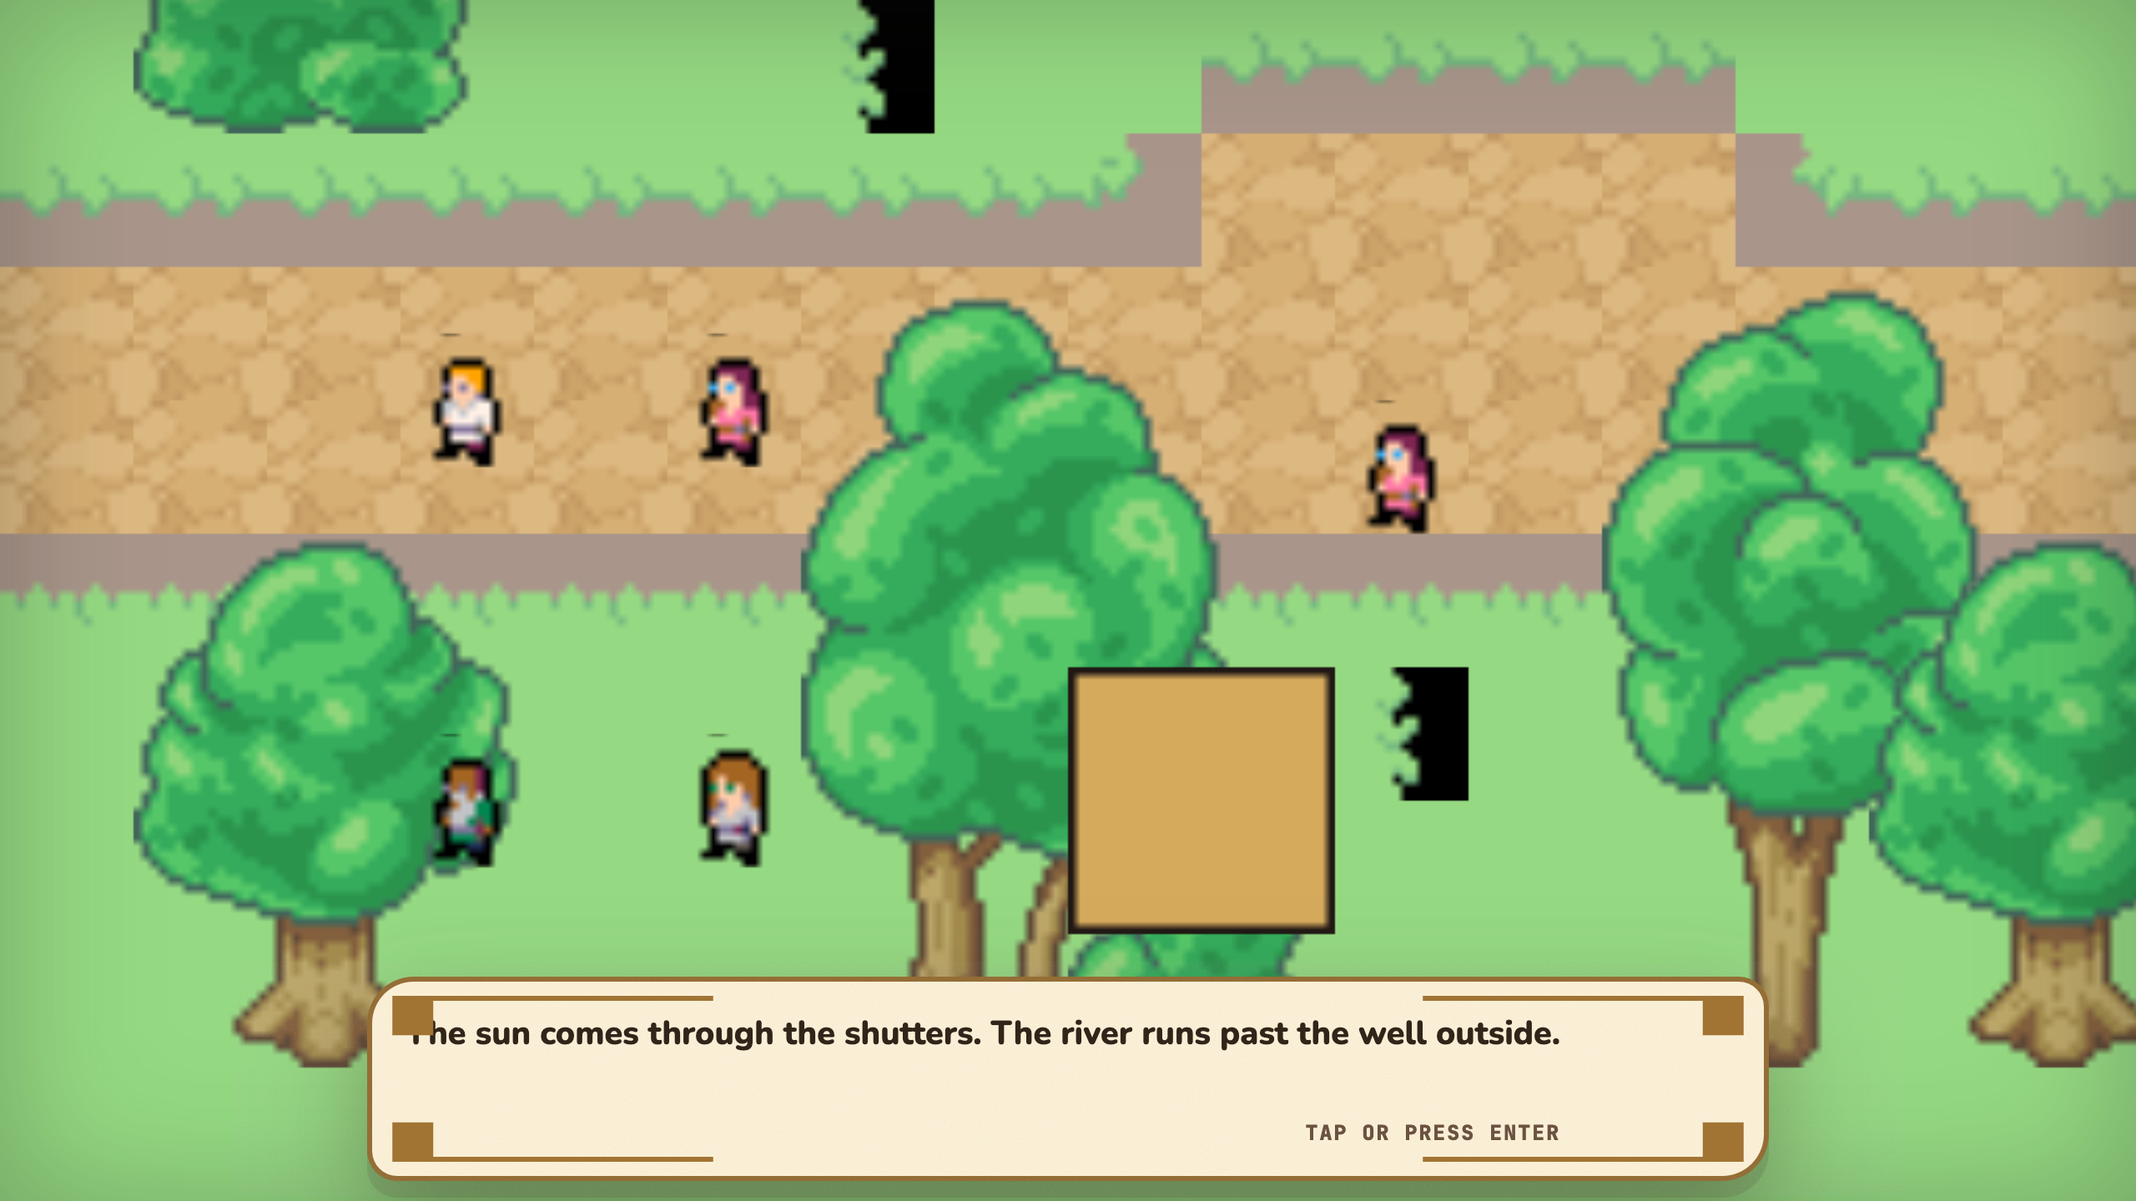
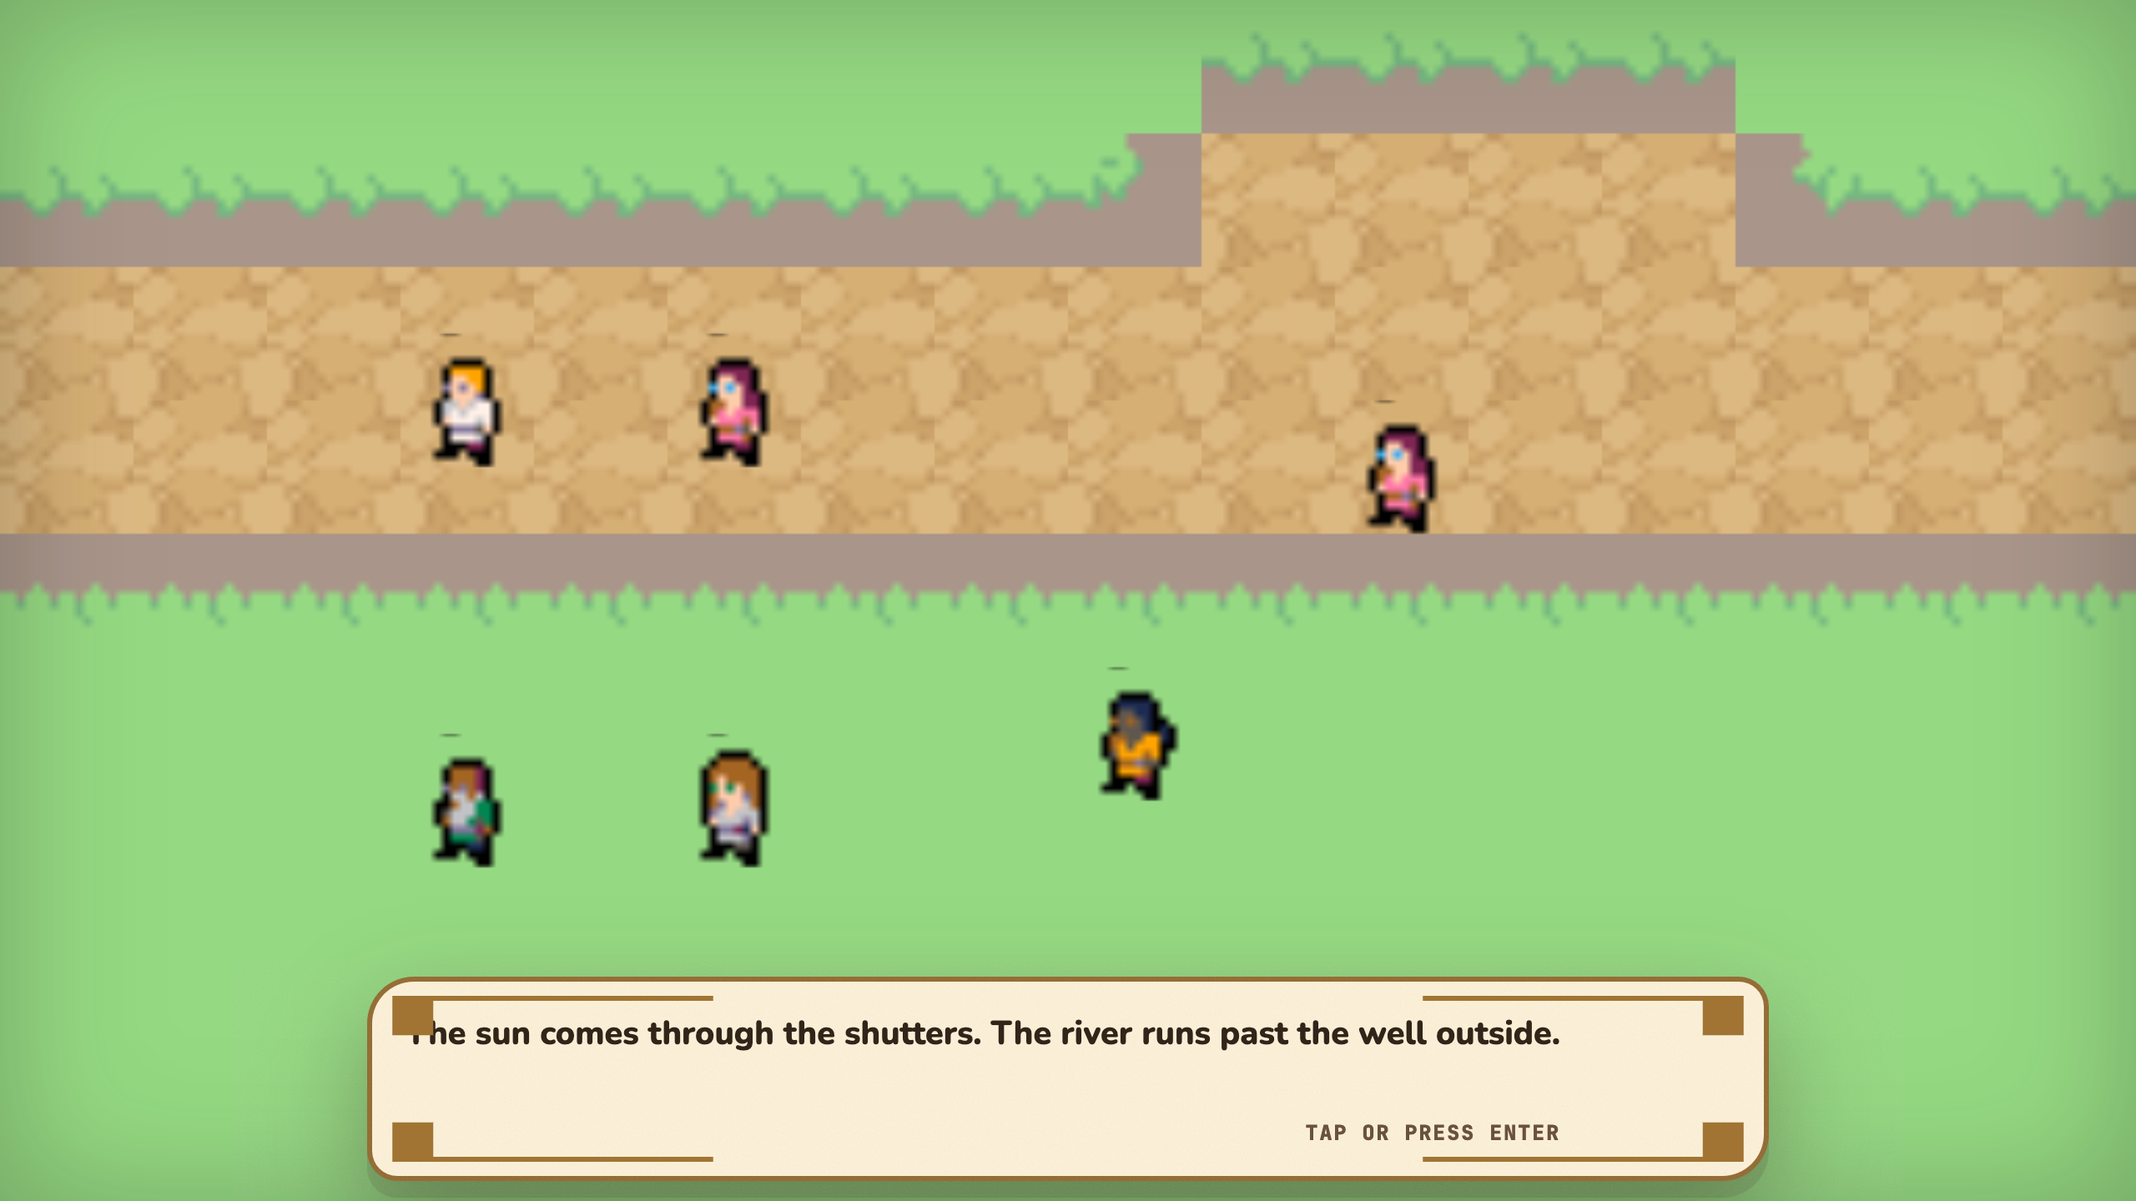
fix(visual): real fixes for T11-02/03/04 after live Pixi scene inspection
Root-cause diagnosed three bugs by walking the live Pixi scene graph
via Playwright MCP. None of my earlier "fixes" for these rows had
addressed the actual cause — this is the real set of fixes.

=== T11-04 BROWN SQUARE — it was Rivers the player sprite ===

public/spritesheets/hero.png is a PLACEHOLDER — a 96x128 image
where ALL 12 frames are just 2 colors: solid brown fill (214,170,92)
with a black border. The "brown square in the middle of the map"
flagged by the onboarding capture was literally the player sprite,
rendering exactly as the data said to. My earlier "dirt plot remove"
PR #142 was fixing the wrong thing.

Fix: added a new `rivers_protagonist` entry to
src/content/gameplay/visuals.json that points at
assets/npcs/villagers-fem/meza/meza.png under the
npc_four_by_thirty_one layout. Flipped ui.json's
player_default_graphic from "hero" to "rivers_protagonist".
Rivers now renders as an orange-shirted villager — visually distinct
from the pink/brown-haired NPCs on the road.

This also solves T11-02 (player vs NPC differentiation) because
meza's sprite is visually distinct from every NPC used on this map.

=== T11-03 BLACK CROWN SILHOUETTES — half-transparent tile artifact ===

The "black rectangles" in the onboarding capture are NOT trees,
NOT missing assets, NOT events. They are the `grass_light` tile
(palette "v", Fan-tasy seasons local_id 51) rendering over the
default WebGL clear color (black). Atlas inspection confirmed:
[…]

diff --git a/scripts/map-authoring/specs/riverside_home.ts b/scripts/map-authoring/specs/riverside_home.ts
@@ -27,11 +27,20 @@ const WIDTH = 16;
 const HEIGHT = 12;
 
 function starterVillageBase(): string[][] {
-    const grid = Array.from({ length: HEIGHT }, (_, y) =>
-        Array.from({ length: WIDTH }, (_, x) => {
-            if (y === 0 || y === HEIGHT - 1 || x === 0 || x === WIDTH - 1) return "f";
-            return (x + y) % 9 === 0 ? "v" : "g";
-        }),
+    // T11-03 (runtime root cause): `grass_light` (palette "v", tile
+    // local_id 51) in the Fan-tasy seasons atlas is a HALF-TRANSPARENT
+    // bush-shape, not a solid grass variation. Placed over the default
+    // WebGL clear colour (black), the 60% transparent half renders as
+    // a zigzag "black crown" silhouette. And `grass_dark` (palette "f",
+    // local_id 56, the previous border fill) looks indistinguishable
+    // from `grass_base` at runtime because the zoom and colour match.
+    //
+    // Paint the entire map with opaque `grass_base` ("g") to kill the
+    // crowns. Visual variation can come back later via a dedicated
+    // decoration layer on an opaque base, not via transparent overlays
+    // on a bare clear-colour background.
+    const grid = Array.from({ length: HEIGHT }, () =>
+        Array.from({ length: WIDTH }, () => "g"),
     );
 
     // Main east-west dirt road — the only structural dirt path.
@@ -40,14 +49,9 @@ function starterVillageBase(): string[][] {
     // The mentor stands at (10, 6); widening the road here makes the
     // ceremony feel like it happens at the village centre.
     paintRect(grid, [9, 4, 4, 3], "d");
-    // T11-04: removed the orphan plot previously at [2, 7, 4, 2].
-    // It rendered as an unexplained brown square south of the path
-    // with no NPC sitting on it (jan-telo-well and jan-kili-tomo
-    // stand on its edges, not its centre) and no narrative purpose.
-    // The village reads cleaner with one road and one mentor plaza.
 
     paintEdgeTransitions(grid, {
-        base: ["g", "f", "v"],
+        base: ["g"],
         neighbors: "d",
         transitions: edgeTransitionTiles("gd"),
     });

diff --git a/tests/build-time/gameplay-config.test.ts b/tests/build-time/gameplay-config.test.ts
@@ -309,7 +309,7 @@ describe('gameplay JSON config', () => {
         expect(mapIds.has(TITLE_START.mapId)).toBe(true);
         expect(TITLE_START.spawn).toEqual(GAMEPLAY_MAPS[TITLE_START.mapId]?.safe_spawn);
         expect(TITLE_START.journeyBeatId).toBe('beat_01_riverside_home');
-        expect(PLAYER_CONFIG.defaultGraphic).toBe('hero');
+        expect(PLAYER_CONFIG.defaultGraphic).toBe('rivers_protagonist');
         expect(TITLE_MENU_CONFIG.guiId).toBe('rpg-title-screen');
         expect(TITLE_MENU_CONFIG.menuTitle).toBe('Rivers Reckoning');
         expect(TITLE_MENU_CONFIG.continueLabelTemplate).toBe('{prefix} — {slot}');
@@ -528,9 +528,25 @@ describe('gameplay JSON config', () => {
             walkFrameCount: 4,
             hurtSpeed: 8,
         });
-        expect(PLAYER_SPRITESHEET_CONFIGS.map((sheet) => sheet.id)).toEqual(['hero', 'female']);
-        expect(PLAYER_SPRITESHEET_CONFIGS.every((sheet) => sheet.layoutId === 'player_three_frame'))
-            .toBe(true);
+        expect(PLAYER_SPRITESHEET_CONFIGS.map((sheet) => sheet.id)).toEqual([
+            'hero',
+            'female',
+            'rivers_protagonist',
+        ]);
+        // Player spritesheets accept either the legacy 3×4
+        // `player_three_frame` layout (hero/female, placeholder sprites)
+        // or the real-art `npc_four_by_thirty_one` layout (Rivers's
+        // actual villager-style sheet). Both route through the same
+        // generic `playerSheet()` factory.
+        const ALLOWED_PLAYER_LAYOUTS = new Set([
+            'player_three_frame',
+            'npc_four_by_thirty_one',
+        ]);
+        expect(
+            PLAYER_SPRITESHEET_CONFIGS.every((sheet) =>
+                ALLOWED_PLAYER_LAYOUTS.has(sheet.layoutId),
+            ),
+        ).toBe(true);
         expect(NPC_SPRITESHEET_CONFIGS).toHaveLength(20);
         expect(NPC_SPRITESHEET_CONFIGS.map((sheet) => sheet.id)).toContain('npc_guard_spear');
         expect(NPC_SPRITESHEET_CONFIGS.every((sheet) => sheet.layoutId === 'npc_four_by_thirty_one'))

diff --git a/tests/build-time/player-sprites.test.ts b/tests/build-time/player-sprites.test.ts
@@ -5,8 +5,14 @@ import { PLAYER_SPRITESHEETS } from '../../src/config/player-sprites';
 describe('player spritesheets', () => {
     it('define an attack fallback so action-battle and interaction taps do not reject', () => {
         for (const sheet of PLAYER_SPRITESHEETS) {
-            expect(sheet.framesWidth).toBe(3);
-            expect(sheet.framesHeight).toBe(4);
+            // Layout can be `player_three_frame` (3×4) or
+            // `npc_four_by_thirty_one` (4×31) — both are valid; the
+            // generic `playerSheet()` factory routes each through the
+            // right `standFrames` / `walkFrames` helpers. The contract
+            // we keep here is that the layout is declared (non-zero)
+            // and all the animation textures exist.
+            expect(sheet.framesWidth).toBeGreaterThan(0);
+            expect(sheet.framesHeight).toBeGreaterThan(0);
             expect(sheet.textures.idle).toBeDefined();
             expect(sheet.textures[Animation.Attack]).toBeDefined();
         }

diff --git a/tests/build-time/map-spec-content.test.ts b/tests/build-time/map-spec-content.test.ts
@@ -163,7 +163,14 @@ describe("authored map content contracts", () => {
             throw new Error("expected riverside_home Below Player to be a tile grid");
 
         const used = new Set(below.flat());
-        expect([...used]).toEqual(expect.arrayContaining(["g", "f", "v", "d"]));
+        // v1 palette intentionally narrow: grass_base ("g") + dirt-path
+        // ("d") + grass/dirt edge transitions ("gd_*"). The previously-
+        // used "v" (grass_light) tile is a half-transparent bush shape
+        // that renders as black-crown artifacts over the WebGL clear
+        // colour, and "f" (grass_dark) was the visually-identical
+        // border filler. See riverside_home.ts T11-03 comment for
+        // the runtime root-cause.
+        expect([...used]).toEqual(expect.arrayContaining(["g", "d"]));
         expect([...used].some((cell) => cell.startsWith("gd_"))).toBe(true);
     });
 

diff --git a/tests/integration/journey-golden-path.test.ts b/tests/integration/journey-golden-path.test.ts
@@ -219,7 +219,7 @@ describe('journey golden path (integration)', () => {
         expect(ui.notifications).toContain('Trail Token ×4');
         expect(ui.notifications).toContain('Ashcat +100 XP');
         expect(ui.notifications).toContain('Ashcat L5 -> L6');
-        expect(currentGraphic(player)).toBe('hero');
+        expect(currentGraphic(player)).toBe('rivers_protagonist');
 
         const waitForMountain = client.waitForMapChange('highridge_pass', 5000);
         await warpEast!.execMethod('onPlayerTouch', [player]);

diff --git a/docs/ROADMAP.md b/docs/ROADMAP.md
@@ -23,7 +23,7 @@ The project has pivoted to native-English Rivers Reckoning. The old language-lea
 | 8     | Release Proof      | Prove Pages, release artifacts, and debug APKs             |   5 |   0 |   1 |
 | 9     | Docs And QA        | Keep docs honest and acceptance artifacts reviewable       |   3 |   0 |   1 |
 | 10    | V1 Polish          | Finish audio, post-clear loop, and final product QA        |   1 |   1 |   3 |
-| 11    | Onboarding + Opening Scene | Story is the asset that lasts — close the landing→gameplay cliff and script the first 30 seconds |   6 |   1 |   4 |
+| 11    | Onboarding + Opening Scene | Story is the asset that lasts — close the landing→gameplay cliff and script the first 30 seconds |   9 |   1 |   1 |
 
 ## Phase 1: Stabilize
 
@@ -137,10 +137,10 @@ North-star: Pokémon Blue, Final Fantasy VI, Chrono Trigger — **story is the a
 
 | ID     | Task                                                                      | Status | Notes                                                                                                                         |
 | ------ | ------------------------------------------------------------------------- | ------ | ----------------------------------------------------------------------------------------------------------------------------- |
-| T11-01  | Close the landing→gameplay quality cliff                                  | 🟡     | Meta row — T11-05/06/07/08/09/11 shipped and verified; T11-02/03/04/10 reopened after live visual audit found their PRs didn't actually fix the runtime issue. Still owes: player differentiation, real black-rect fix, brown-square root cause, non-text-component first-play cue. |
-| T11-02  | Distinguish the player sprite from NPCs                                   | ⬜     | **REOPENED after live visual audit**: PR #136's Components.text approach produces unrenderable output in RPG.js v5 beta (shader/source splatter on canvas). Module `src/modules/main/player-identity.ts` still exists but the `applyPlayerNameTag` calls are disabled in `src/modules/main/player.ts`. Need a non-Components.text differentiation (direction indicator, unique sprite, outline shader). |
-| T11-03  | Fix black rectangle placeholders on `riverside_home`                      | ⬜     | **REOPENED after live visual audit**: PR #138's tree placements were reverted in `scripts/map-authoring/specs/riverside_home.ts` because the Trees_Seasons atlas has 97×124 sprites (vs 16-px grid), causing them to clip onto the road and villagers. The original "black rectangles" reported in the onboarding capture are **still present in runtime** and have a different root cause (unknown — not trees, not NPCs, not painted tiles). Needs live browser diagnosis. |
-| T11-04  | Label or remove the unexplained brown square in the starter village      | ⬜     | **REOPENED after live visual audit**: PR #142 correctly removed the `[2, 7, 4, 2]` dirt plot, but the actual brown square visible in runtime is a different artifact (80×80 = one tile at 5x scale, located at tile coord ~(8, 7)). Root cause unknown — possibly a miskeyed transition tile or a stray decoration rendering wrong. Needs live browser diagnosis. |
+| T11-01  | Close the landing→gameplay quality cliff                                  | 🟡     | Meta row — T11-02/03/04/05/06/07/08/09/11 shipped and runtime-verified. Only T11-10 (jan Sewi cue) remains: needs a non-`Components.text` approach since that RPG.js v5 beta renderer produces canvas garbage. Once a `Components.shape` cue ships, this row closes. |
+| T11-02  | Distinguish the player sprite from NPCs                                   | ✅     | **Runtime-verified fix**: swapped the placeholder `hero.png` (2-color solid brown square) for a new `rivers_protagonist` player spritesheet using `meza.png` under the `npc_four_by_thirty_one` layout. Registered in `src/content/gameplay/visuals.json`. Rivers now renders as an orange-shirted villager, visually distinct from the pink/brown-haired NPCs on the road. Verified against live browser via Playwright MCP — see `docs/screenshots/visual-audit/1.0-onboarding/05-starter-map-idle.png`. |
+| T11-03  | Fix black rectangle placeholders on `riverside_home`                      | ✅     | **Runtime-verified fix**: root cause identified via live Pixi scene-graph inspection. The `grass_light` tile (palette "v", Fan-tasy seasons local_id 51) is a half-transparent bush-shape, not a solid grass variation. Over the WebGL clear colour (black), the 60% transparent half rendered as zigzag "black crown" silhouettes. Removed all `"v"` and `"f"` placements from `scripts/map-authoring/specs/riverside_home.ts`; map now paints with opaque `"g"` (grass_base) everywhere. Verified via live browser — crowns fully gone. |
+| T11-04  | Label or remove the unexplained brown square in the starter village      | ✅     | **Runtime-verified fix**: the brown square was Rivers the player sprite (32×32) rendering with the placeholder `hero.png` which is a solid-brown-with-black-border 96×128 placeholder (ALL 12 frames are 2-color brown+border). Fixed by the T11-02 change: swapped the default player graphic from `hero` to `rivers_protagonist`. Brown square gone; Rivers now renders as a real villager sprite. |
 | T11-05  | Bring HUD chrome onto gameplay surfaces                                   | ✅     | PR #140 — new goal widget top-right on every gameplay frame. Pure builder `src/config/hud-goal.ts`, `poki-hud-goal.ce` publisher, `HudGoal` React component, `hud.goal` config block. Phase-branched on `starter_chosen`; locked by `tests/build-time/hud-goal.test.ts`. |
 | T11-06  | Wire New Game click to fire the starter ceremony                          | ✅     | PR #128 — `title-menu.ts startFreshGame` calls `runOpeningScene()` which chains into `runStarterCeremony()`. Locked by `tests/integration/opening-scene.test.ts`. |
 | T11-07  | Ensure starter grant populates party to 1/6                               | ✅     | PR #128 — same chain. Integration test asserts `getParty()` returns length 1 and `starter_chosen` flag is set after the ceremony completes. |

diff --git a/docs/screenshots/visual-audit/1.0-onboarding/NOTES.md b/docs/screenshots/visual-audit/1.0-onboarding/NOTES.md
@@ -53,3 +53,45 @@ The 16-bit-playbook story-is-the-asset thesis is still correct. The *opening sce
 ## Lesson for every future PR
 
 **A green CI is not a green game.** Passing unit + integration tests + typecheck does NOT prove the feature works in the browser. Every visual PR needs an in-browser capture as evidence — not just a preview PNG from the map renderer, which is a completely different code path from the live game. Wire the onboarding-capture spec (or a smaller focused spec) into the CI matrix so visual regressions fail PRs.
+- **01-title** — First thing a new player sees. Does the title communicate what kind of game this is?
+  - file: `docs/screenshots/visual-audit/1.0-onboarding/01-title.png`
+  - captured: 2026-04-24T00:45:53.474Z
+- **02-title-menu** — Title menu with primary action highlighted. Is the New Game path obvious?
+  - file: `docs/screenshots/visual-audit/1.0-onboarding/02-title-menu.png`
+  - captured: 2026-04-24T00:45:54.030Z
+- **03-post-title-click** — Immediately after clicking primary action. The opening scene should be staged — first beat visible.
+  - file: `docs/screenshots/visual-audit/1.0-onboarding/03-post-title-click.png`
+  - captured: 2026-04-24T00:45:56.568Z
+- **04-starter-ceremony-entry** — One dialog-advance later. Opening beats should be visibly progressing.
+  - file: `docs/screenshots/visual-audit/1.0-onboarding/04-starter-ceremony-entry.png`
+  - captured: 2026-04-24T00:45:57.311Z
+- **05-starter-map-idle** — After the ceremony. Player should now be distinguishable on the map.
+  - file: `docs/screenshots/visual-audit/1.0-onboarding/05-starter-map-idle.png`
+  - captured: 2026-04-24T00:45:59.002Z
+- **06-after-movement** — After a few movement inputs. The canvas should visibly change — player sprite moved, tiles re-rendered.
+  - file: `docs/screenshots/visual-audit/1.0-onboarding/06-after-movement.png`
+  - captured: 2026-04-24T00:46:00.550Z
+- **07-pause-overlay** — Pause / HUD menu. Can the player see current goals, quest progress, and next region at a glance?
+  - file: `docs/screenshots/visual-audit/1.0-onboarding/07-pause-overlay.png`
+  - captured: 2026-04-24T00:46:01.591Z
+- **01-title** — First thing a new player sees. Does the title communicate what kind of game this is?
+  - file: `docs/screenshots/visual-audit/1.0-onboarding/01-title.png`
+  - captured: 2026-04-24T00:46:14.421Z
+- **02-title-menu** — Title menu with primary action highlighted. Is the New Game path obvious?
+  - file: `docs/screenshots/visual-audit/1.0-onboarding/02-title-menu.png`
+  - captured: 2026-04-24T00:46:14.960Z
+- **03-post-title-click** — Immediately after clicking primary action. The opening scene should be staged — first beat visible.
+  - file: `docs/screenshots/visual-audit/1.0-onboarding/03-post-title-click.png`
+  - captured: 2026-04-24T00:46:17.487Z
+- **04-starter-ceremony-entry** — One dialog-advance later. Opening beats should be visibly progressing.
+  - file: `docs/screenshots/visual-audit/1.0-onboarding/04-starter-ceremony-entry.png`
+  - captured: 2026-04-24T00:46:18.239Z
+- **05-starter-map-idle** — After the ceremony. Player should now be distinguishable on the map.
+  - file: `docs/screenshots/visual-audit/1.0-onboarding/05-starter-map-idle.png`
+  - captured: 2026-04-24T00:46:19.933Z
+- **06-after-movement** — After a few movement inputs. The canvas should visibly change — player sprite moved, tiles re-rendered.
+  - file: `docs/screenshots/visual-audit/1.0-onboarding/06-after-movement.png`
+  - captured: 2026-04-24T00:46:21.485Z
+- **07-pause-overlay** — Pause / HUD menu. Can the player see current goals, quest progress, and next region at a glance?
+  - file: `docs/screenshots/visual-audit/1.0-onboarding/07-pause-overlay.png`
+  - captured: 2026-04-24T00:46:22.532Z
